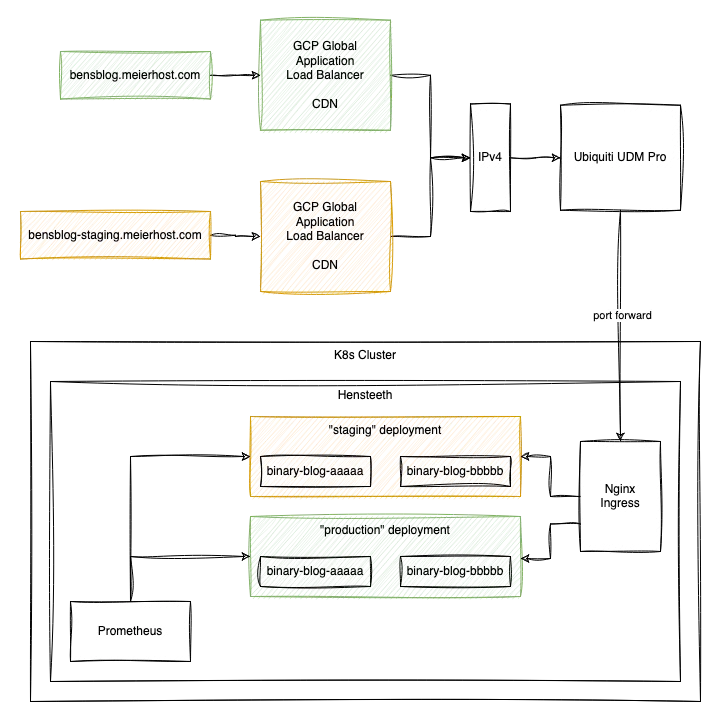
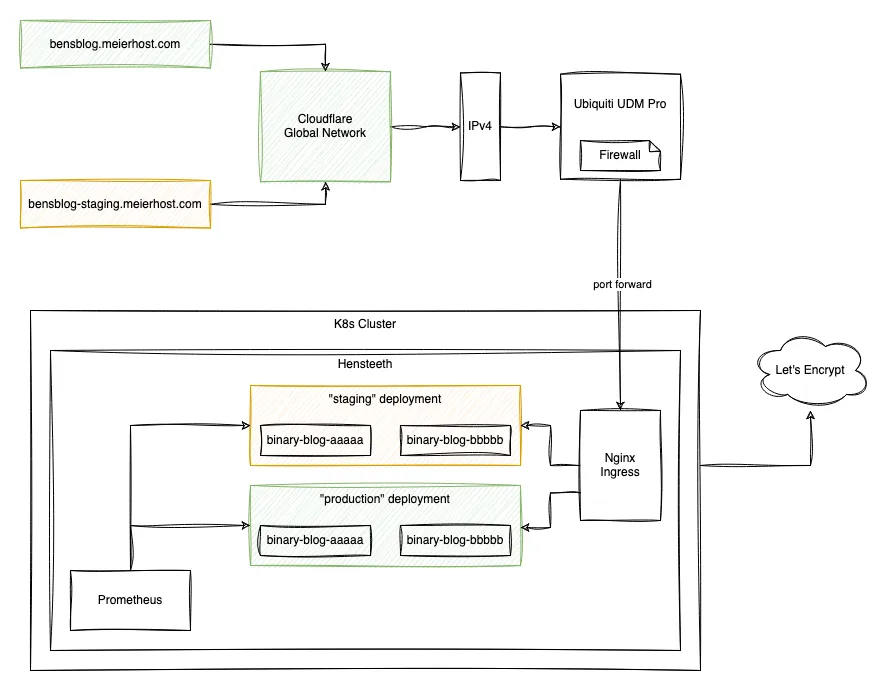
feat: update binary blog post with cloudflare (#49)

diff --git a/resources/posts/20230706-binary-blog/content.md b/resources/posts/20230706-binary-blog/content.md
@@ -1,5 +1,7 @@
 <meta x-title="A binary blog"/>
 
+**Edit 2023-09-23:** _The first version of this blog described using GCP as a global application load balancer. This ended up being too expensive for more liking and I went back to Cloudflare - and updated this post to describe that layout._
+
 I've been interested in learning Rust (the programming language) for some time. As someone that enjoys reasoning and building distributed systems and looking at formal verification, the memory model of Rust intrigues me! So since I was looking at self-hosting my blog, I thought it may be a great excuse to tie together several things into one project:
 
 1. Learn and use Rust for a relatively complex project
@@ -47,26 +49,18 @@ generate-webp: $(WEBP_FILES)
 
 ## Hosting
 
-The blog is hosted in a production and "staging" configuration on the [Hensteeth Server](../20230705-home-lab-infrastructure) cluster. The staging configuration is mostly used for proofreading before the image is promoted to the primary hostname.
+The blog is hosted in a production and "staging" configuration on the [Hensteeth Server](../20230705-home-lab-infrastructure) cluster. The staging configuration is mostly used for proofreading before the container image is promoted to the primary hostname.
 
 It's best to understand this as a diagram:
 
-![diagram showing k8s deployment, port forwarding, and Google Cloud load balancer](blog-infra.drawio.png.webp)
+![A diagram showing k8s deployment, port forwarding, and Cloudflare integration](blog-infra.drawio.png.webp)
 
-The global load balancer is important to me as it gives the blog edge-style caching, with HTTP-to-HTTPS redirection without putting my home IP address right at the cliff face. This unfortunately incurs the main cost of the project: it relies on 1 or 2 static IP addresses set up for anycast to the GCP endpoints.
+I'm using Cloudflare as the global router and proxy in front of my home IP address (with a Let's Encrypt certificate on my end). Limiting the ingress on the firewall to just Cloudflare's proxy addresses helps to keep things secure here - and I can trust Cloudflare to keep the public HTTPS side of things tidy.
 
-Certificates on the LB are done with Google's certificate management and DNS challenges.
+I had previously used GCP for all of my DNS and the global application load balancer for this blog however this quickly became quite expensive due to mounting DNS and Networking costs (in the £40/month range). Shifting all DNS records and proxy'ing to Cloudflare has made this considerably cheaper.
 
-![traffic flow with caching](flow.png.webp)
-
-I've been using GCP here because that's where I've had my DNS zone hosted in the past, and the global load balancer was attractive. Unfortunately, I've been finding some of the GCP experience, especially around monitoring and metrics, quite poor so I'm probably going to look towards a different solution in the future. It won't be Cloudflare, and BunnyCDN lacked a good solution for allow-listing the incoming ip range between the CDN and my home router. Thankfully as everything is set up with Terraform it's relatively easy to move!
+Everything is set up with Terraform with any secrets (API keys) stored in a `1password` vault.
 
 ## Next steps
-
-- I've chosen to have no client-side monitoring or tracking, which is great but it means I need to spend some time building a dashboard or tool to pull data out of the Google monitoring stack so that I can figure out hits per blog post.
-
-- Evaluate costs and check if another CDN solution is needed, although I'll only be able to figure this out after a few months.
-
-- Continuous delivery. I'm currently deploying it manually with a `helm upgrade` call once the PR has merged into the main branch on Github and the CI pipeline has run, but that sucks! I'd like to get it at least automatically promoted to staging. This is complicated because Github Actions can't easily reach out to my K8s cluster. I may need to do something more custom here.
 
 - Write more content!
